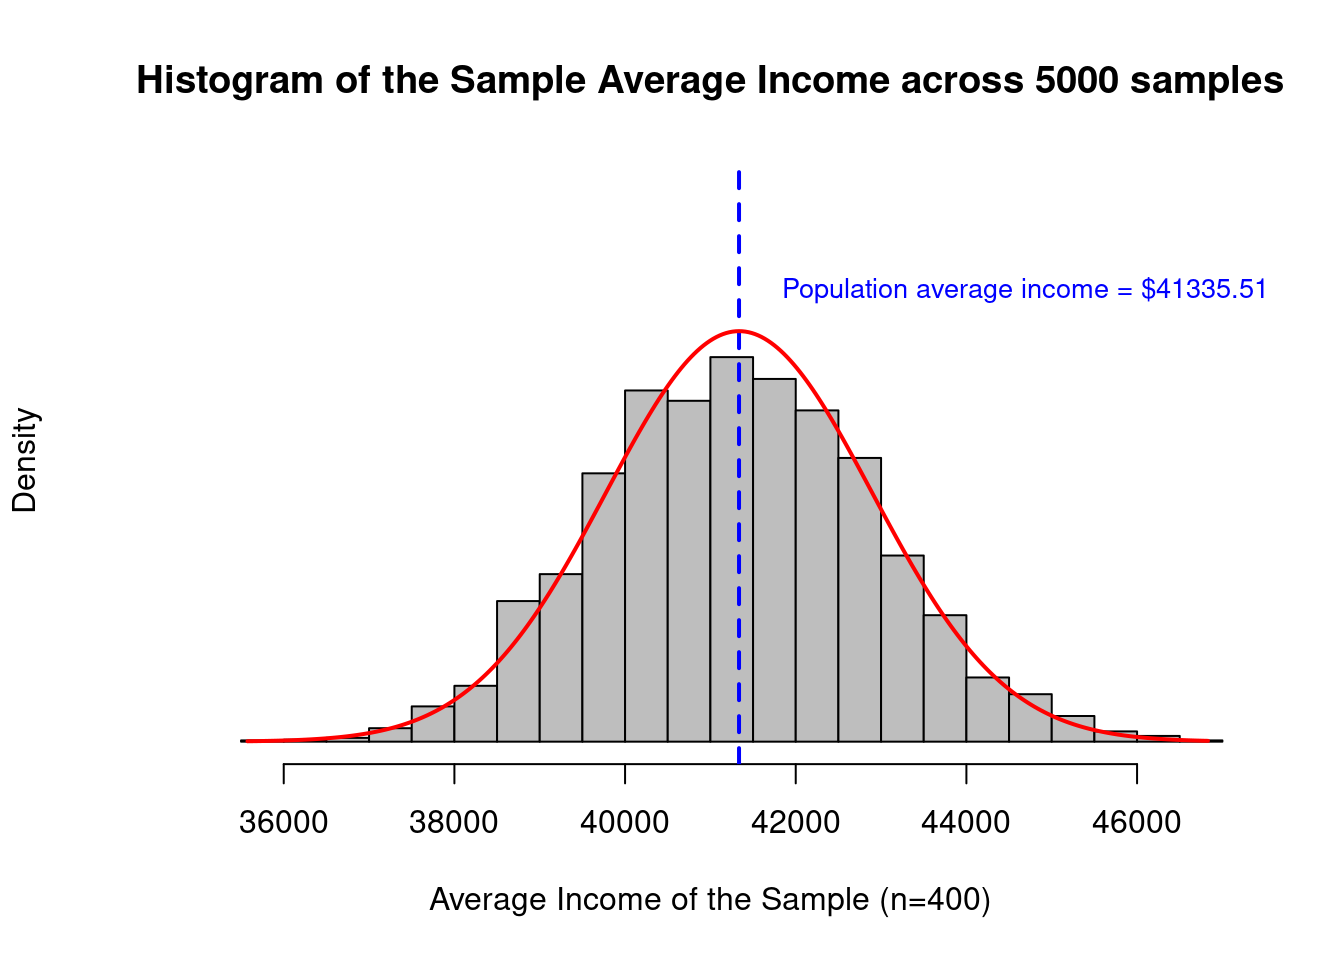
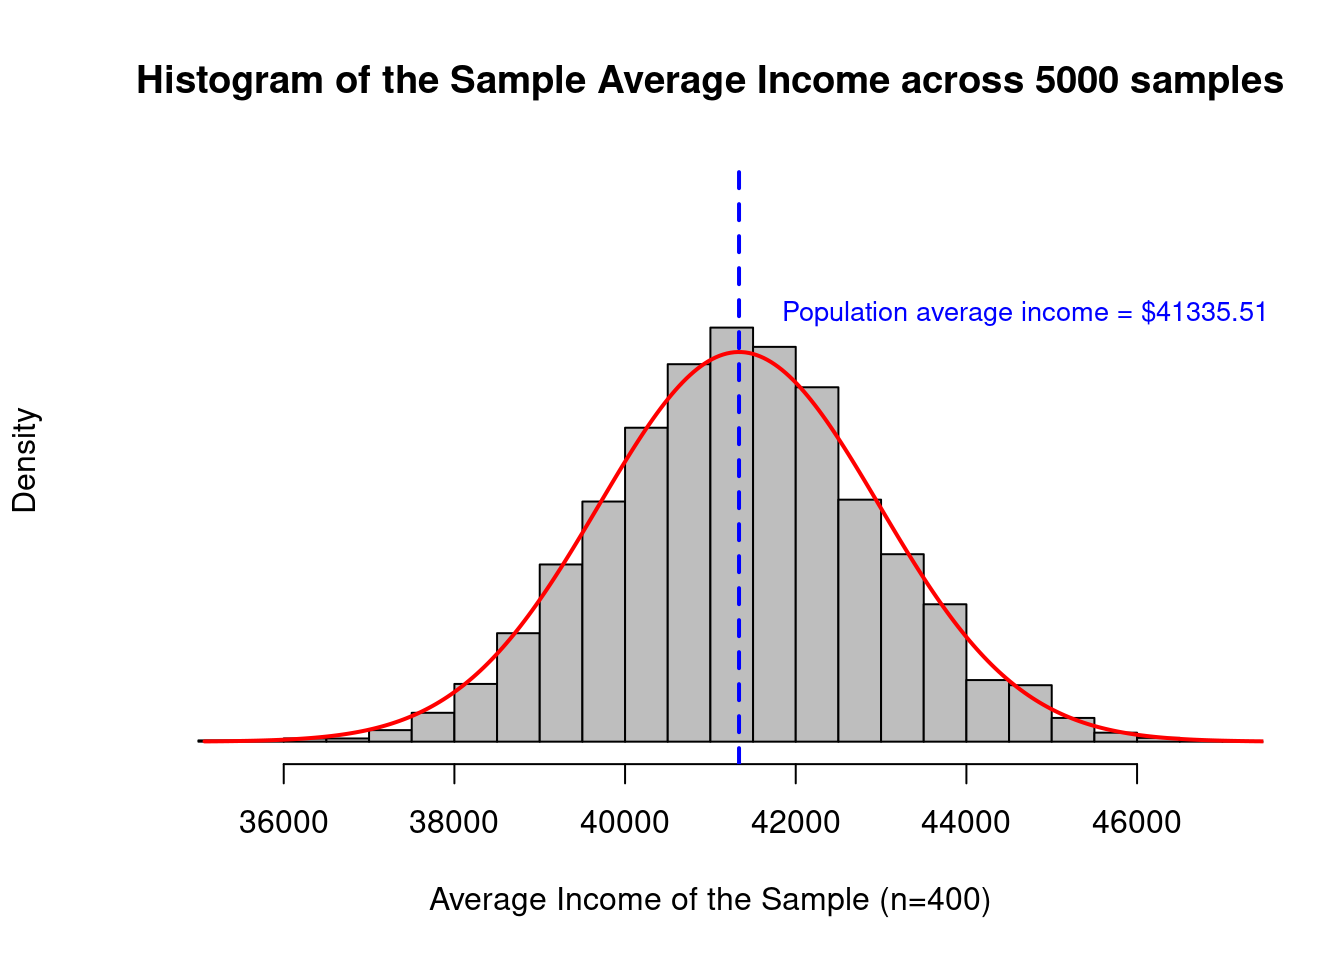
Spacing: Again

diff --git a/docs/03b-CLT.html b/docs/03b-CLT.html
@@ -350,6 +350,7 @@ the uncertainty from a sample based estimate</li>
 <li>Calculate the 95% confidence interval for a sample average using
 Normal approximation</li>
 </ul>
+<hr />
 <div id="dataset" class="section level2">
 <h2>Dataset</h2>
 <p>For this set of examples, I will use the Cyberville families data.
@@ -459,11 +460,11 @@ deviation of the sample.</p>
 <pre class="r"><code># Calculate the sample mean of Income
 sample.avg &lt;- mean(study.data$INCOME)
 sample.avg</code></pre>
-<pre><code>&gt; [1] 43751.46</code></pre>
+<pre><code>&gt; [1] 39418.81</code></pre>
 <pre class="r"><code># Calculate the sample sd of Income
 sample.sd &lt;- sd(study.data$INCOME)
 sample.sd</code></pre>
-<pre><code>&gt; [1] 32476.54</code></pre>
+<pre><code>&gt; [1] 32058.94</code></pre>
 <p>If you run the last two sections of code repeatedly, you will find
 that each time a new sample is selected the sample mean is a different
 number.</p>
@@ -589,7 +590,7 @@ upperCI = sample.avg + qnorm(0.975, mean = 0, sd = 1) * se
 
 print(cbind(sample.avg, lowerCI, upperCI))</code></pre>
 <pre><code>&gt;      sample.avg  lowerCI  upperCI
-&gt; [1,]   42070.57 39013.61 45127.52</code></pre>
+&gt; [1,]   43069.65 39848.99 46290.32</code></pre>
 </div>
 <div id="interpreting-confidence-intervals" class="section level2">
 <h2>Interpreting confidence intervals</h2>
@@ -615,7 +616,7 @@ sample.reps$outBounds[ true.avg &gt; sample.reps$upperCI ] &lt;- 1
 
 # what % of study replications reported 95% CI that did not include the true population average?
 sum(sample.reps$outBounds)/m</code></pre>
-<pre><code>&gt; [1] 0.053</code></pre>
+<pre><code>&gt; [1] 0.0494</code></pre>
 <p>I hope it is not too much of a surprise that this is really close to
 5%!</p>
 <p>Next: Elements of a Statistical Test</p>

diff --git a/docs/04a-Binomial-Test.html b/docs/04a-Binomial-Test.html
@@ -350,6 +350,7 @@ interpret the p-value<br />
 <li>Estimate and interpret a point estimate and confidence intervals for
 the proportion</li>
 </ul>
+<hr />
 <div id="binomial-distribution" class="section level2">
 <h2>Binomial Distribution</h2>
 <div id="recall-bernoulli-trials" class="section level3">
@@ -368,7 +369,7 @@ if(runif(1) &lt;= p){1}else{0}</code></pre>
 p = 1/6
 n = 20
 as.integer(runif(n) &lt;= p)</code></pre>
-<pre><code>&gt;  [1] 1 0 0 0 0 0 0 0 0 0 0 0 0 0 0 0 1 0 1 1</code></pre>
+<pre><code>&gt;  [1] 1 0 0 1 0 0 0 0 0 0 1 0 0 0 0 0 0 0 0 1</code></pre>
 </div>
 </div>
 <div id="binomial-distribution-functions" class="section level2">
@@ -426,9 +427,9 @@ trials when the probability of success is “prob”</p>
 n = 20
 p = 1/6
 rbinom(n = trials, size = n, prob = p)</code></pre>
-<pre><code>&gt;   [1] 4 3 4 3 3 2 2 4 5 2 1 5 0 5 1 1 3 3 6 2 5 5 5 3 0 5 2 7 6 3 5 3 1 3 2 3 2
-&gt;  [38] 5 3 2 5 4 3 2 2 4 1 5 1 1 4 4 3 4 3 6 2 4 7 3 4 1 2 1 3 1 5 5 5 2 3 6 2 2
-&gt;  [75] 5 2 2 0 4 4 5 1 6 2 2 3 5 2 0 4 7 3 3 3 1 0 5 1 4 3</code></pre>
+<pre><code>&gt;   [1] 6 4 2 4 5 4 2 2 4 1 6 7 2 4 4 0 3 5 2 7 4 0 3 1 1 1 4 5 2 4 4 4 7 3 3 3 4
+&gt;  [38] 6 2 1 2 2 3 5 7 4 5 3 4 4 5 5 6 3 2 2 3 5 4 6 7 5 4 3 2 1 1 6 3 5 3 2 4 6
+&gt;  [75] 3 3 0 8 5 3 3 2 1 2 3 5 4 4 5 6 1 4 6 4 3 5 3 3 4 4</code></pre>
 </div>
 </div>
 <div id="binomial-test-theory" class="section level2">

diff --git a/docs/04b-T-Test.html b/docs/04b-T-Test.html
@@ -349,6 +349,7 @@ present</li>
 <li>Write an appropriate null hypothesis, apply appropriate t-test, and
 interpret the p-value</li>
 </ul>
+<hr />
 <div id="data-set" class="section level2">
 <h2>Data set</h2>
 <p>For this set of examples, I will use the Cyberville families data.

diff --git a/docs/04c-WMW-U.html b/docs/04c-WMW-U.html
@@ -349,6 +349,7 @@ present</li>
 <li>Write an appropriate null hypothesis, apply test appropriately, and
 interpret the p-value</li>
 </ul>
+<hr />
 <div id="data-set" class="section level2">
 <h2>Data set</h2>
 <p>For this set of examples, I will continue to use the sample
